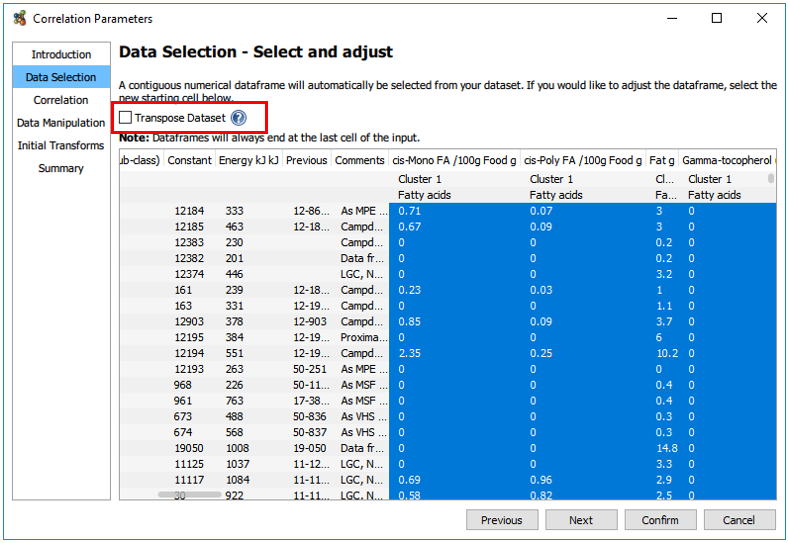
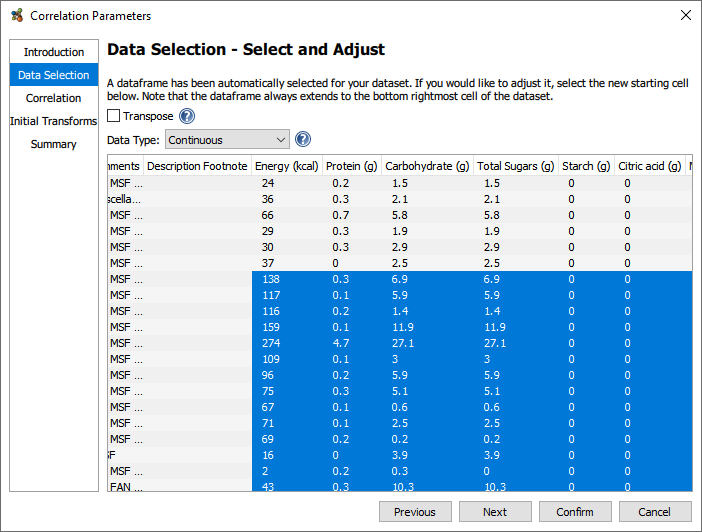
User guide update for version 3

diff --git a/guide/section4/1_loading_numerical.md b/guide/section4/1_loading_numerical.md
@@ -5,33 +5,31 @@ next: 2_analyses_steps
 
 ## Numerical Data
 
-For datasets of numerical values arranged in columns and rows, it may not be obvious what the relationship between them is. Using Graphia's built-in correlation analysis, you can identify relationships between entities based on the similarity between their data patterns. Graphia can rapidly generate correlation graphs even from very large tables of numbers, i.e. 10s of thousands of columns and rows. The process of preparing data for loading is down to the individual, as each data type or source of data may have its own challenges in getting it 'graph ready'. These include; data cleaning, formatting, QC, normalisation, annotation, correction, imputation, etc.. Garbage in = Garbage out.
+At face value the relationship between rows of data in large tabular datasets may not be immediately obvious. Using Graphia's built-in correlation analysis, you can identify relationships between entities based on the similarity in their data patterns. Graphia can rapidly generate correlation graphs even from very large datasets; 10s of thousands of columns and rows. The process of preparing data for loading is down to the individual, as each data type or source of data may have its own challenges in getting it 'graph ready'. These include; data cleaning, formatting, QC, normalisation, annotation, correction, imputation, etc.. Ultimately the quality of the resulting graph visualisation depends on these steps.
 
-In order to leverage correlation analysis the data must be formatted into a either a Comma Separated Values (.csv), Tab Separated Values (.tsv) or an Excel Files (.xlsx). These files must be structured to be 'correlation-ready'.
+In order to leverage correlation analysis, the source data must be formatted into a table either in CSV, TSV or Excel formats. These files must be structured as follows.
 
 ![]({{ site.baseurl }}/guide/assets/s4-1.png)
-<div class="caption">Format of a 'correlation analysis ready' file and saved as a .csv file</div>
 
-A correlation ready file consists of a header of column IDs, then a series of rows with each row representing a node (or entity). The first column should be a unique identifier for each entity. The next set of columns should describe attribute values associated with that entity. The final set of columns should be the numerical attribute data which will be used to perform the correlation analysis. Similarly columns of data should begin a unique identifier (row 1), include attribute data (where available), followed by the numerical values.
+A correlation file consists of a header of column names, then a series of rows with each row representing some entity, that will ultimately correspond to a node. The first column should be a unique identifier for each of these entities (*Row ID*). The next set of columns should describe attribute values associated with that entity (*Row Attributes*). Similarly columns of data should begin with a unique identifier (*Column ID*), then optionally annotation data where available (*Column Annotations*), ending with the data values. This should be the actual data values which will be used to perform the correlation analysis (*Numerical Data Table*). Usually it contains numerical values, but discrete/categorical data can also be used.
 
-Once your data is in this form, simply open the file in Graphia by navigating to File → Open or by clicking the file open toolbar button. 
+Once your data is in this form, simply open the file in Graphia by navigating to *File → Open* or by clicking the file open toolbar button. 
 
 ## Generation of Correlation Graphs
 
-Where the data of interest is comprised of a table of numerical values, a correlation matrix is calculated, whereby both axes list the entities being compared, and the intersecting cells contain the correlation scores. In practice this matrix is unreasonably large and thus does not exist, but it can be helpful to conceptualise the process. Most commonly the scores in the similarity matrix are calculated using the Pearson correlation coefficient or perhaps Spearman rank, both of which can be calculated by Graphia. In principle however, any relationship matrix based on a measure of similarity can be visualised by the tool. For instance, when dealing with categorical data use of Jaccard similarity coefficient is more appropriate. Other measures may be calculated outside of the tool and imported as a similarity matrix.
+A correlation matrix is notionally calculated, whereby both axes list the entities being compared, and the intersecting cells contain the correlation scores. In practice this matrix is unreasonably large and thus does not actually exist, but it can be helpful to conceptualise the process. The resulting graph is essentially equivalent to the matrix, but much easier for a human being to interpret. Most commonly the scores in the similarity matrix are calculated using the Pearson correlation coefficient, but various correlation measures are available, including those used for discrete correlation such as Jaccard.
 
 In order to turn numerical data into a graph and identify data patterns and trends therein, Graphia compares the numerical values (data series) associated with each entity, with those associated with every other entity, in an all vs. all comparison. In other words, it makes a list of correlations ranging from -1 (perfect anti-correlation) to +1 (perfect correlation). The bigger the data series, i.e. the number of measurements it contains, the less likely any entity will be correlated to another purely by chance. 
 
-Upon loading a table of numbers, you will be presented with the correlation wizard. To set up an analysis you will be guided through a variety of options that set up the parameters for the analysis. Upon clicking next, you will be presented with the Data Selection page.
+After opening a table of data, you will be presented with the correlation wizard. To set up an analysis you will be guided through a variety of options that set up the parameters for the analysis. 
 
 ## Data Selection
 
 ![]({{ site.baseurl }}/guide/assets/s4-2.png)
-<div class="caption">Data selection page with a numerical frame selected highlighted in blue and transpose option framed in red.</div>
 
-The Data Selection page contains a number of options to adjust the graph output from the file. Graphia automatically detects where the numerical data begins, i.e. the data frame (highlighted) from the input file. You can click on cells to add or remove rows and columns from the analysis if the data frame has not been selected as desired.
+The Data Selection page contains a number of options to adjust the graph output from the file. Graphia automatically detects where the numerical data begins, i.e. the data frame (highlighted) from the input file. You can click on cells to add or remove rows and columns from the analysis if the data frame has not been identified correctly.
 
-This page also gives you the option to transpose the data, if you wish to set the columns to be treated as nodes, instead of the rows. Click Next when happy with your selection.
+This page also gives you the option to transpose the data, if you wish to set the columns to be treated as nodes, instead of the rows. Additionally, the *Data Type* can be selected so that discrete data can be considered for correlation, i.e. that which is non-numerical.
 
 ## Correlation
 
@@ -39,51 +37,35 @@ This page also gives you the option to transpose the data, if you wish to set th
 <div class="caption">Plot of predicted graph size based on correlation threshold. As initial threshold increases, the number of nodes and edges in the resultant graph decreases.</div>
 
 The distribution and number of correlation values for a given dataset is defined primarily by a number of variables:
-- **Number of Columns** - the smaller the number, the more likely things are correlated purely by chance, i.e. you will need to select a high r-threshold value. 
-- **Data Structure** - if there are many patterns in the data it will increase the number of highly connected cliques in the data and therefore the number of edges. Also if the data describes the same or similar entities many times over, edge numbers may again be very high. 
-- **Noise** - the noisier (more random) a dataset the less it will correlate.
-- **Number of Rows** - this directly influences the absolute number of calculations that need to be performed but not the distribution of results.
+- **Number of Columns**: the smaller the number, the more likely things are correlated purely by chance, i.e. you will need to select a high r-threshold value. 
+- **Data Structure**: if there are many patterns in the data it will increase the number of highly connected cliques in the data and therefore the number of edges. Also if the data describes the same or similar entities many times over, edge numbers may again be very high. 
+- **Noise**: the noisier (more random) a dataset the less it will correlate.
+- **Number of Rows**: this directly influences the absolute number of calculations that need to be performed but not the distribution of results.
 
 A plot of node and edge counts for a range of threshold values is provided. It should be noted that the distribution of correlation values is dataset specific and one must be aware of those node and edge counts, correlation graphs are potentially massive! Given the dataset specific nature of a correlation, it is therefore necessary to select the Minimum and Initial thresholds for graph construction.
 
-The Minimum Threshold describes the lowest correlation value that can be used to construct a graph, i.e. the minimum edge weight. While Graphia calculates a full all vs. all correlation it only saves a subset the calculations as when the input files are large, the number of correlations calculated can be massive. Not only will this potentially exhaust system resources, weak correlations are generally not interesting. The default minimum threshold of 0.7 is good for many applications. For datasets consisting of weakly correlated entities you may wish to lower this value and vice versa for strongly correlated datasets.
+The Minimum Threshold describes the lowest correlation value that will be used to construct a graph. This corresponds to the minimum edge weight. While Graphia calculates a full all vs. all correlation it only saves a subset the calculations as when the input files are large, the number of correlations calculated can be massive. Not only will this potentially exhaust system resources, weak correlations are generally not interesting. The default minimum threshold of 0.7 is good for many applications. For datasets consisting of weakly correlated entities you may wish to lower this value and vice versa for strongly correlated datasets.
 
-The Initial Threshold is used to set the minimum edge weight threshold used for graph assembly. For example, using an initial threshold of 0.85 means entity pairs with a correlation score of 0.85 or above will be connected by an edge, while any relationship below 0.85 correlation will not. The Initial Threshold can be changed after the graph is generated. Clicking and dragging the dotted line will adjust the Initial threshold, or the value can be changed directly using the keyboard. With Initial Threshold, a good starting point is to select a value near to the "Knee" of the plot; where the number of nodes begins to decrease more rapidly. In the example above this would be around 0.95. Generally, the aim is to plot the maximum number of nodes connected by a minimum number of edges.
+The Initial Threshold is used to set the minimum edge weight threshold used for graph assembly. For example, using an initial threshold of 0.85 means entity pairs with a correlation score of 0.85 or above will be connected by an edge, while any relationship below 0.85 correlation will not. The Initial Threshold can be changed after the graph is generated. Clicking and dragging the dotted line will adjust the Initial threshold, or the value can be changed by entering it directly. With Initial Threshold, a good starting point is to select a value near to the "knee" of the plot; where the number of nodes begins to decrease more rapidly. Generally, the aim is to plot the maximum number of nodes connected by a minimum number of edges.
 
-For most applications, the Pearson correlation coefficient is recommend with graphs being constructed based on all correlations above a defined threshold (out of distribution ranging from -1 to +1). However, Graphia will also build correlation graphs based on Spearman Rank correlations and provides the option to build graphs of negative correlations or both negative and positive correlations.
-
-Once thresholds are selected click Next.
-
-## Data Manipulation
-This provides a number of options to adjust the data values contained within your selected data frame.
+For most applications, the Pearson correlation coefficient is recommend for graphs being constructed based on all correlations above a defined threshold, however other correlation measures are available. Additionally it's possible to build graphs of negative correlations or both negative and positive correlations, and otherwise manipulate the data being loaded. These options are available by selecting the *Advanced* checkbox.
 
 ![]({{ site.baseurl }}/guide/assets/s4-5.png)
-<div class="caption">This page provides the means to impute, log/antilog transform or normalise input data prior to the calculation of the correlation matrix.</div>
 
-- Imputation (only displayed when needed) allows you to replace missing values in the dataset (empty cells) with a constant or interpolated value.
-- Scaling scales the values within the data-frame, this is useful if you use logarithmic or exponential data.
-- Normalisation allows you to adjust distributions of data within your data-frame. Min-Max normalisation is particularly useful if your columns each use different units.
+- **Polarity**: whether to compute anti-correlations.
+- **Imputation (only displayed when needed)**: allows the replacement of missing values in the dataset (empty cells) with a constant or interpolated value.
+- **Scaling**: scales the values within the data frame, this is useful if you use logarithmic or exponential data.
+- **Normalisation**: allows the adjustment of distributions of data within the data frame. Min/Max normalisation is particularly useful if the columns of data use different units.
 
-If these settings are adjusted you may want to return to the correlation plot to see what effect this has had on the distribution of correlations.
+## Finalising
+The final pages of the wizard include *Initial Transforms*, which as its name suggests allows the creation of commonly used transforms in the context of correlation analysis. These transforms can be adjusted later; allowing for creation here is only provided as a convenience. After this page a summary is presented, that documents the parameters that will be used to create the graph. This can be accessed later by going to the *Tools* menu and choosing *Show Provenance Log…*.
 
-## Initial Transforms
-This allows you to add some of the most common transforms to the graph. Transforms can be added or removed later once a graph has been generated.
-
-![]({{ site.baseurl }}/guide/assets/s4-6.png)
-<div class="caption">This page provides the means to apply graph transforms prior to visualisation of the graph.</div>
-
-## Summary
-The final page provides a look at all the parameters set before correlation occurs. These options can be copied and pasted for provenance of your analysis. 
-
-![]({{ site.baseurl }}/guide/assets/s4-7.png)
-<div class="caption">The Summary lists all the pre-analysis data transforms that have been applied during the previous steps.</div>
-
-Please note: Should your selected settings for graph construction result in a massive graph, i.e. one that is likely to exhaust your computer's memory or graphics card, the following message will be displayed:
+Please note, should your selected settings for graph construction result in a large graph, the following message will be displayed:
 
 > 'WARNING: This is a very large graph which has the potential to exhaust system resources and lead to instability or freezes. Increasing the Minimum Correlation Value will usually reduce the graph size.' 
 
 Ignore this warning at your peril!
 
-Clicking Finish begins the computation of the initial graph visualised using settings provided by the user. Clicking Confirm at any point during data entry will skip to the Summary page using the current settings.
+Clicking *Finish* begins the computation of the graph using the selecting settings. Clicking *Confirm* at any point when using the wizard will skip to the *Summary* page using the current settings.
 
 {% include guide-nav.html %}

diff --git a/guide/section3/2_transforms_visualisation_analyses.md b/guide/section3/2_transforms_visualisation_analyses.md
@@ -6,7 +6,7 @@ next: 3_saving
 
 ## Transforms
 
-Graph transformation is a central concept in Graphia. Transforms are a range of processes by which a graph is modified to produce a new graph or calculate a new attribute. Graphia incorporates a wide range of options that allow an analyst to perform a sophisticated range of data transformations and analyses. These include processes such as graph clustering, edge reduction, node/edge filtering based on attributes, calculation of graph metrics or algorithms that change the structure of a graph. Graphia's interface for performing graph transforms has been designed to be powerful and flexible, the results immediately modifying a graph's structure or appearance.
+Graph transformation is a central concept in Graphia. Transforms are a range of processes by which a graph is modified to produce a new graph or calculate a new attribute. Graphia incorporates a wide range of options that allow an analyst to perform a sophisticated range of data transformations and analyses. These include processes such as graph clustering, edge reduction, node/edge filtering based on attributes, calculation of graph metrics, or algorithms that change the structure of a graph. Graphia's interface for performing graph transforms has been designed to be powerful and flexible, the results immediately modifying a graph's structure or appearance.
 
 The **Add Transform** button can be found in the top right of the graph view. From here a list of transforms can be selected (see below).
 
@@ -20,20 +20,20 @@ Clicking **Add Transform** will bring up the following dialog:
 ![]({{ site.baseurl }}/guide/assets/s3-3.png)
 <div class="caption">The cluster dialog providing the means to select clustering algorithm and granularity setting.</div>
 
-From here you are presented with a list of all transforms available, separated by category. Clicking on a transform from the list will display a list of options as well as a brief description of the transform.
+From here you are presented with a list of all transforms available, separated by category. Selecting a transform from the list will elicit a brief description of the transform and its associated parameters.
 
-- Attributes provides a means to modify or add new attributes based on existing attributes in the graph
-- Clustering provides options for clustering a graph
-- Edge reduction provides a means to globally reduce the number of edges in a graph
-- Filters provides options to remove or keep elements based on their associated attributes
-- Metrics includes a number of algorithms to analyse the positional characteristics of elements in a graph
-- Structural includes a range of algorithms that will change the structure of a graph, based on defined criteria
+- **Attributes**: modify or add new attributes using the values of existing attributes
+- **Clustering**: partition the graph into distinct clusters
+- **Edge reduction**: globally reduce the number of edges in a graph, while approximately maintaining structure
+- **Filters**: conditionally filter elements based on their associated attributes
+- **Metrics**: introduce new attributes that measure elements' placement within the graph
+- **Structural**: change the structure of a graph in various ways
 
 Some transforms provide the option to automatically apply a visualisation after adding. Clicking OK will finalise the transform and add it to the Graph. We describe some of the most commonly used transforms below. 
 
 ## Clustering
 
-Clustering is the act of dividing a graph up into groups of nodes, which are referred to as clusters, based on their position within the overall topology of the graph. Clustering seeks to divide the graph into communities where nodes likely possess similar properties or characteristics. Graphia incorporates two of the most widely used algorithms for performing this analysis, the Markov Clustering (MCL) and Louvain clustering algorithms. Both include the option to change the granularity of clustering, i.e. how many clusters are formed. There is no simple answer to the question of what the correct clustering of a graph is, but good visualisation allows one to look at the results of a cluster analysis and how it maps on to a graph's structure. Once data has been clustered, clusters can be analysed by enrichment analysis to see if there are any node attributes over-represented within the groups. 
+Clustering is the act of dividing a graph up into groups of nodes based on their position within the overall topology of the graph. These are referred to as clusters. Clustering seeks to divide the graph into communities that are likely to possess similar properties or characteristics. Graphia incorporates two of the most widely used algorithms for performing this analysis, the Markov Clustering (MCL) and Louvain clustering algorithms. Both include the option to change the granularity of clustering, i.e. how many clusters are formed. There is no simple answer to the question of what the correct clustering of a graph is, but good visualisation allows one to look at the results of a cluster analysis and how it maps on to a graph's structure. Once data has been clustered, clusters can be analysed by enrichment analysis to see if there are any node attributes over-represented within the groups. 
 
 ## Edge Reduction
 
@@ -51,16 +51,16 @@ The filter transforms allows a user to remove nodes or edges based on their attr
 
 ## Metrics
 Graphia includes three metrics for analysing a graphs structure:
-- Betweenness centrality is a measure of centrality in a graph based on the shortest paths between nodes. The betweeness centrality is the number of these shortest paths that pass through the node.
-- Eccentricity calculates the shortest path between every node and assigns the longest path length found for each node. This is a measure of a node's position within the overall graph structure. 
-- PageRank is an algorithm used originally to measure the importance of website pages. PageRank works by counting the number and quality of links to a page to determine a rough estimate of how important a node is.
+- **Betweenness**: centrality is a measure of centrality in a graph based on the shortest paths between nodes. The betweeness centrality is the number of these shortest paths that pass through the node.
+- **Eccentricity**: calculates the shortest path between every node and assigns the longest path length found for each node. This is a measure of a node's position within the overall graph structure. 
+- **PageRank**: is an algorithm used originally to measure the importance of website pages. PageRank works by counting the number and quality of links to a page to determine a rough estimate of how important a node is.
 
 ![]({{ site.baseurl }}/guide/assets/s3-6.png)
 <div class="caption">Visual display of attribute data. (A) Display of clusters (categorical attribute); (B) following 'Remove Leaves' transformation; (C) visualisation of Betweeness centrality values; (D) Eccentricity values; (E) PageRank values; (F) Node degree values. C-D are continuous attributes, so colour spectrum and size used for display. Betweenness and eccentricity are calculated for both nodes and edges and therefore visual encoding is applied to both.</div>
 
-## Visualisation of Attribute Information
+## Visualisations
 
-Visualisations are another important concept. Associated with nodes and edges are various attributes. This information may have been loaded from the input file or calculated in the application itself. Visualisations are often tied to the output of Transforms; for example a clustering transform will automatically apply a colour visualisation, so each cluster is coloured differently.
+Visualisations are another important concept. Associated with nodes and edges are various attributes. This information may have been loaded from the input file, imported afterwards, or calculated in the application itself. Visualisations are often tied to the output of Transforms; for example a clustering transform will automatically apply a colour visualisation, so each cluster is coloured differently.
 
 Clicking **Add Visualisation** (bottom right of graph display window) will open the Add Visualisation dialog.
 
@@ -69,9 +69,9 @@ Clicking **Add Visualisation** (bottom right of graph display window) will open 
 
 Visualisations can be one of the following types:
 
-- **Colour** - For text based attributes this will apply a unique colour to each distinct attribute value. Numerical values will be displayed as a colour range or gradient.
-- **Size** - This will scale elements to match the range of the attribute's values.
-- **Text** - This will display the attribute value as text in the graph. The visibility of graph text can be changed via View → Show Node/Edge Text. The font and size of text can be adjusted in the Options dialog.
+- **Colour**: For text based attributes this will apply a unique colour to each distinct attribute value. Numerical values will be displayed as a colour range or gradient.
+- **Size**: This will scale elements to match the range of the attribute's values.
+- **Text**: This will display the attribute value as text in the graph. The visibility of graph text can be changed via *View → Show Node/Edge Text*. The font and size of text can be adjusted in the Options dialog.
 
 Visualisations operate in a list, similarly to how Transforms work. Visualisations update to match the data in the graph.
 
@@ -84,5 +84,10 @@ In the case of categorical attributes each attribute is assigned a colour, numer
 <div class="caption">A simple graph with colour, size and text visualisations applied to represent node degree (orthographic view).</div>
 
 Each visualisation operates within its domain and does not interfere with other visualisations of a different type, for example a colour visualisation will not interfere with a text visualisation. However two visualisations of the same type will overlap, with the last visualisation in the list taking precedence. Multiple visualisations of the same type can be in the same list without overlapping, assuming they apply to separate graph elements.
+
+![]({{ site.baseurl }}/guide/assets/s3-12.png)
+<div class="caption">Visualisation mapping editor.</div>
+
+Numerical attributes can be mapped to the chosen visualisation channel in a variety of ways. By default the minimum and maximum values of the attribute are used, that is to say the minimum attribute value maps to e.g. the minimum node size, and likewise for the maxmimum. Additionally, the standard deviation may be used, or an entirely custom range decided the user. In the case where the attribute's value distribution is not homogenous, the curve of the mapping can be adjusted to better reflect the underlying data.
 
 {% include guide-nav.html %}

diff --git a/guide/section4/2_analyses_steps.md b/guide/section4/2_analyses_steps.md
@@ -7,7 +7,7 @@ prev: 1_loading_numerical
 
 From here on you may require many of Graphia's visualisation and analytical capabilities described in the previous section. In particular you may wish to:
 - Adjust the correlation threshold. Displayed at top right hand corner of the screen is a slider bar and text box for adjusting the display threshold between the minimum threshold and 1.
-- Cluster the graph. For correlation graphs we recommend use of the MCL algorithm.
+- Cluster the graph, if a clustering transform was not selected in the wizard.
 - Display the data values associated with clusters - see below.
 
 ![]({{ site.baseurl }}/guide/assets/s4-8.png)
@@ -32,23 +32,23 @@ By adjusting the cut-off value for edges, you can 'open up' the graph to reveal 
 
 ## Data Plot
 
-When performing a correlation analysis, a data plot is also displayed adjacent to the usual attribute table. This plot displays the data values associated with selected nodes. There are numerous options to change the appearance of this plot, these will be discussed below.
+When performing a correlation analysis, a data plot is also displayed adjacent to the usual attribute table. This plot displays the data values associated with selected nodes. There are numerous options to change the appearance of this plot, these are discussed below.
 
 ## Cluster Analysis
 
 Once a correlation graph has been generated, a common first step is to run a clustering algorithm. This partitions the graph into clusters based on the connectivity between nodes, with the result that entities with a similar data profile are located within the same cluster. For correlation graphs where the average node degree is high, we recommend the use of the MCL algorithm. The granularity setting for clustering can be adjusted on fly by use of the slider bar, such that the clustering reflects the visible graph structure. Once satisfied with the partition of a graph, a user can then rapidly explore the profile of the resulting clusters. 
 
-Go to Edit → Find by Attribute Value and the following user interface will appear in the top left of the window. This allows finding all the nodes which have a particular value for the selected attribute. In the context of clustering, this allows the user to scroll through the calculated clusters. Selecting the option to the right of the attribute selector allows finding of multiple clusters at once.
+Go to *Edit → Find by Attribute Value* and the following user interface will appear in the top left of the window. This allows finding all the nodes which have a particular value for the selected attribute. In the context of clustering, this allows the user to scroll through the calculated clusters. Multiple clusters can be selected at once using the option immediately to the right of the attribute selector; *Select Multiple*.
 
 ![]({{ site.baseurl }}/guide/assets/s4-12.png)
 <div class="caption">Gene correlation graph, following clustering. A single cluster (cluster 1) has been selected and its identity and properties are shown below in the attribute table window and its expression profile is plotted to the right. Each line represents the data associated with a single node.</div>
 
-Having clustered a graph the next thing is to view the profile of those clusters and there are numerous options available to do this:
+The data profile of the selected nodes is displayed in the lower right of the window. There are numerous options available to control this, examples of which are shown here:
 
 ![]({{ site.baseurl }}/guide/assets/s4-13.png)
-<div class="caption">Options for viewing cluster profile. (A) A single cluster with the profile of individual nodes on display. Hovering over a given data point will provide details. Note column annotations have been displayed under the line graph using the 'Select Visible Column Annotations' button and selecting those of interest. This allows easy alignment between known variables and the data; (B) Mean histogram of A; (C) IQR plot of A; (D) Mean line of two clusters (1,2) showing anti-correlation; (E) Combined plot of all clusters; (F) Various menu options accessed by right click on data plot window.</div>
+<div class="caption">Options for viewing cluster profile. (A) A single cluster with the profile of individual nodes on display. Hovering over a given data point will provide details. Note column annotations have been displayed under the line graph using the 'Select Visible Column Annotations' button and selecting those of interest. This allows easy alignment between known variables and the data; (B) Mean histogram of A; (C) IQR plot of A; (D) Mean line of two clusters (1,2) showing anti-correlation; (E) Combined plot of all clusters; (F) Various options accessed by the Plot menu.</div>
 
-Graphia is designed to let a user quickly explore data clusters, defining what is interesting and what is 'noise'. Having selected a specific cluster, individual data points within that cluster may be selected in the attribute table. By scrolling up and down with the arrow keys, individual nodes within the selection are highlighted, and their data profiles displayed in the plot. After an initial analysis it may be necessary to look again at the input data, possibly recalculating values or removing data that is not of interest, therefore focusing an analysis on what is interesting.
+Graphia is designed to let a user quickly explore data clusters, defining what is interesting and what is 'noise'. Having selected a specific cluster, individual data points within that cluster may be selected in the attribute table. By scrolling up and down within the data table, individual nodes are highlighted, and their data profiles displayed in the plot. After an initial analysis it may be necessary to look again at the input data, possibly recalculating values or removing data that is not of interest, therefore focusing an analysis on what is interesting.
 
 _**Graphia is designed to allow you to explore, analyse and interrogate data, it is up to you how you do this and what you do with the insights obtained.**_
 

diff --git a/guide/section3/4_enrichment.md b/guide/section3/4_enrichment.md
@@ -5,16 +5,16 @@ prev: 3_saving
 
 ## Enrichment Analysis
 
-Enrichment analysis is often useful, especially when used in conjunction with graph clustering. Graphia provides a powerful enrichment tool for testing your data.
+Enrichment analysis is often useful, especially when used in conjunction with graph clustering. Graphia provides an enrichment tool for testing your data.
 
 Enrichment analysis is an additional test that can be performed on sets of data to identify how significant the set distribution is compared to an average. Imagine 4 red and 4 blue balls distributed between 2 sets randomly. The statistical likelihood is that each set should get 2 red and 2 blue balls. If a bag had 4 red balls in they would be "Enriched" in red balls since it is statistically unlikely to occur by random chance. It is a useful tool for understanding how likely a result is.
 
 ![]({{ site.baseurl }}/guide/assets/s3-10.png)
 <div class="caption">The sets on the left are the statistical average layout, with 50% red and 50% blue. The sets on the right are said to be "enriched" in red and blue respectively as they contain 100% red or 100% blue, deviating from the statistical average.</div>
 
-With a dataset loaded, Enrichment is located under "Tools → Enrichment". This will bring up the Enrichment wizard. The enrichment wizard will walk you through the steps to get started.
+With a dataset loaded, Enrichment is located under *Tools → Enrichment*. This will bring up the Enrichment wizard. The enrichment wizard will walk you through the steps to get started.
 
-The first attribute you be asked to select will define the "sets" to test for enrichment. This is most likely to be a clustering, i.e. MCL or Louvain. The second attribute you will be asked to select will be the attribute value to test for enrichment. In the example above this would be the colour of the balls.
+The first attribute you be asked to select will define the "sets" to test for enrichment. This is usually going to be a clustering, i.e. MCL or Louvain. The second attribute you will be asked to select will be the attribute value to test for enrichment. In the example above this would be the colour of the balls.
 
 When completed, you will be shown the Enrichment Results dialog. This will display a table of results and a heat map representation of the enrichment testing on the right.
 

diff --git a/guide/section2/3_what_type_graphia.md b/guide/section2/3_what_type_graphia.md
@@ -2,17 +2,17 @@
 title: What Type of Data Can I Analyse with Graphia?
 prev: 2_first_start_up
 ---
-
-## Graph Data
+## Types of Data
 Graphia can be used to analyse a wide variety of data types from almost any source, as long as it can be abstracted into a graph, i.e. the relationships between entities are known in advance. If you also have additional metadata, i.e. information relating to individual nodes and edges, this can be imported and explored as node/edge attributes. This information may be stored in a database or spreadsheet but will need to be in the right format for loading and analysis.
 
+## Graph Data
 Simple lists of nodes and edges may be loaded as two columns, the implication is that there is a relationship between the node defined in column 1 and the node in column 2, and loaded as a text file (.txt). Such information can also be encoded as an adjacency matrix or loaded from a comma/tab separated variable file (.csv, .tsv)
 
-More complex definitions of a graph may be encoded using a number of standard graph based file formats, for example GraphML, GML, JSON Graph, or MATLAB data files. These are widely used standard file formats and are frequently available for as export formats from other graph analysis packages.
+More complex definitions of a graph may be encoded using a number of standard graph based file formats, for example GraphML, GML, JSON Graph, Graphviz dot, Cytoscape CX, or MATLAB data files. These are widely used standard file formats and are frequently available for as export formats from other graph analysis packages.
 
 For more information on working with graph data, see the Graph Analysis section.
 
-## Numerical Data
+## Tabular Data
 This is where correlation analysis comes in. Correlation analysis works to define how similar one entity is to another based on any numerical data series associated with them. By only using the strongest relationships between entities to define edges, you can rapidly identify groups of entities that behave similarly. In other words, you can identify patterns and trends within the data.
 
 Correlation analysis can be used as basis to explore any table of numbers relating to any set of entities, whether they are discrete or continuous values. One of Graphia's unique selling points is its ability to calculate and render massive correlation graphs from big datasets.

diff --git a/guide/section3/3_saving.md b/guide/section3/3_saving.md
@@ -8,18 +8,18 @@ next: 4_enrichment
 Having performed an analysis one needs save the results. Graphia allows you to export tables of results or publication quality images of the graphs and data plots, for subsequent communication of the results to others.
 
 ## Graphs
-Graphia supports exporting graphs in a variety of different formats. Exported files will include all node and end attribute values. (Excluding pairwise, since it does not support additional meta-data and will only preserve the node name and graph topology.)
+Graphia supports exporting graphs in a variety of different formats. Exported files will include all node and edge attribute values. (Excluding pairwise, since it does not support additional meta-data and will only preserve the node name and graph topology.)
 
-To export a graph, go to File → Save As… and select the file format from the dropdown.
+To export a graph, go to *File → Save As…* and select the file format from the dropdown.
 - GraphML
 - GML
 - JSON (JSON Graph)
 - Pairwise (.txt)
 
 ## Table Data
-Tabular data can also be exported from the attribute viewer and the enrichment results by right clicking the tables and clicking "Export…". Data will be exported as either .csv or .tsv. These formats can be opened using a spreadsheet application.
+Tabular data can also be exported from the attribute viewer and the enrichment results by right clicking the tables and clicking *Export…*. Data will be exported as either .csv or .tsv. These formats can be opened using a spreadsheet application.
 
 ## Visualisations
-Graphia also has an image capture feature available from File → Save As Image… allowing you to capture a range of high resolution and publication ready images. To quickly share a normal resolution screenshot, Ctrl+C can be used to copy the current graph display to the clipboard.
+Graphia also has an image capture feature available from *File → Save As Image…* allowing you to capture a range of high resolution and publication ready images. To quickly share a normal resolution screenshot, Ctrl+C can be used to copy the current graph display to the clipboard.
 
 {% include guide-nav.html %}

diff --git a/guide/section3/1_load_graph_data.md b/guide/section3/1_load_graph_data.md
@@ -5,16 +5,19 @@ next: 2_transforms_visualisation_analyses
 
 ## Loading Graph Data
 For an analysis to proceed, data needs to be presented to Graphia in one of the supported file formats. Graphia will allow you to load any data in the right format, and it will quickly highlight any errors or issues with the data's format. Once explored, it is not uncommon that data will need to be refined and then reloaded. Graphia supports a wide range of data types derived from many sources, in this section we will deal with data that is already in a graph format and the tools available for its exploration and analysis.
-If your data already has an obvious node and edge structure, i.e. the relationships are already defined, we recommend loading it via a graph-based file format. For small datasets without attributes, pairwise (.txt) is a very simple and easy to construct format. If formatted as an adjacency matrix these can be loaded as (.csv, .tsv). For most other datasets, we recommend using one of the standard graph formats such as GML.
+For small datasets without attributes, pairwise (.txt) is a very simple and easy to construct format. Adjacency matrices can be loaded as (.csv, .tsv). For most other datasets, we recommend using a standardised graph format such as GML.
 
 Graphia supports the following file formats:
-- Pairwise (.txt)
-- JSON Graph (.json)
+- Adjacency Matrix (.csv, .tsv, .xlsx)
+- Biopax OWL (.owl)
+- Cytoscape Exchange (.cx, .cx2)
+- Graphviz DOT (.dot)
 - GraphML (.graphml)
 - Graph Modelling Language (.gml)
-- Adjacency Matrix (.csv, .tsv)
+- JSON Graph (.json)
 - MATLAB data files (.mat)
+- Pairwise (.txt, .csv, .tsv, .xlsx)
 
-These files can be loaded directly into Graphia navigating to File → Open or by clicking the open icon in the top left of the toolbar.
+These files can be loaded directly into Graphia navigating to *File → Open* or by clicking the open icon in the top left of the toolbar.
 
 {% include guide-nav.html %}

diff --git a/guide/section2/2_first_start_up.md b/guide/section2/2_first_start_up.md
@@ -6,7 +6,7 @@ next: 3_what_type_graphia
 
 ## First Start 
 
-Once running Graphia, you will be greeted with an introductory dataset and a simple tutorial. This tutorial dataset uses a graph of the London Underground and Riverbus Networks. The tutorial will guide you through simple interactions with the graph. Once closed, you can reopen the tutorial by going to Help → Show Tutorial.
+Once running Graphia, you will be greeted with an introductory dataset and a simple tutorial. This tutorial dataset uses a graph of the London Underground and Riverbus Networks. The tutorial will guide you through simple interactions with the graph. Once closed, you can reopen the tutorial by going to *Help → Show Tutorial*.
 
 ## Main Window
 

diff --git a/userguide.md b/userguide.md
@@ -25,7 +25,7 @@ title: User Guide
   </li>
 {% endfor %}
 
-## Correlation Network Analysis (Numerical Data)
+## Correlation Network Analysis (Tabular Data)
 {% assign pages = site.pages | where_exp: "item", "item.url contains 'section4'" %}
 {% for entry in pages %}
   <li>
